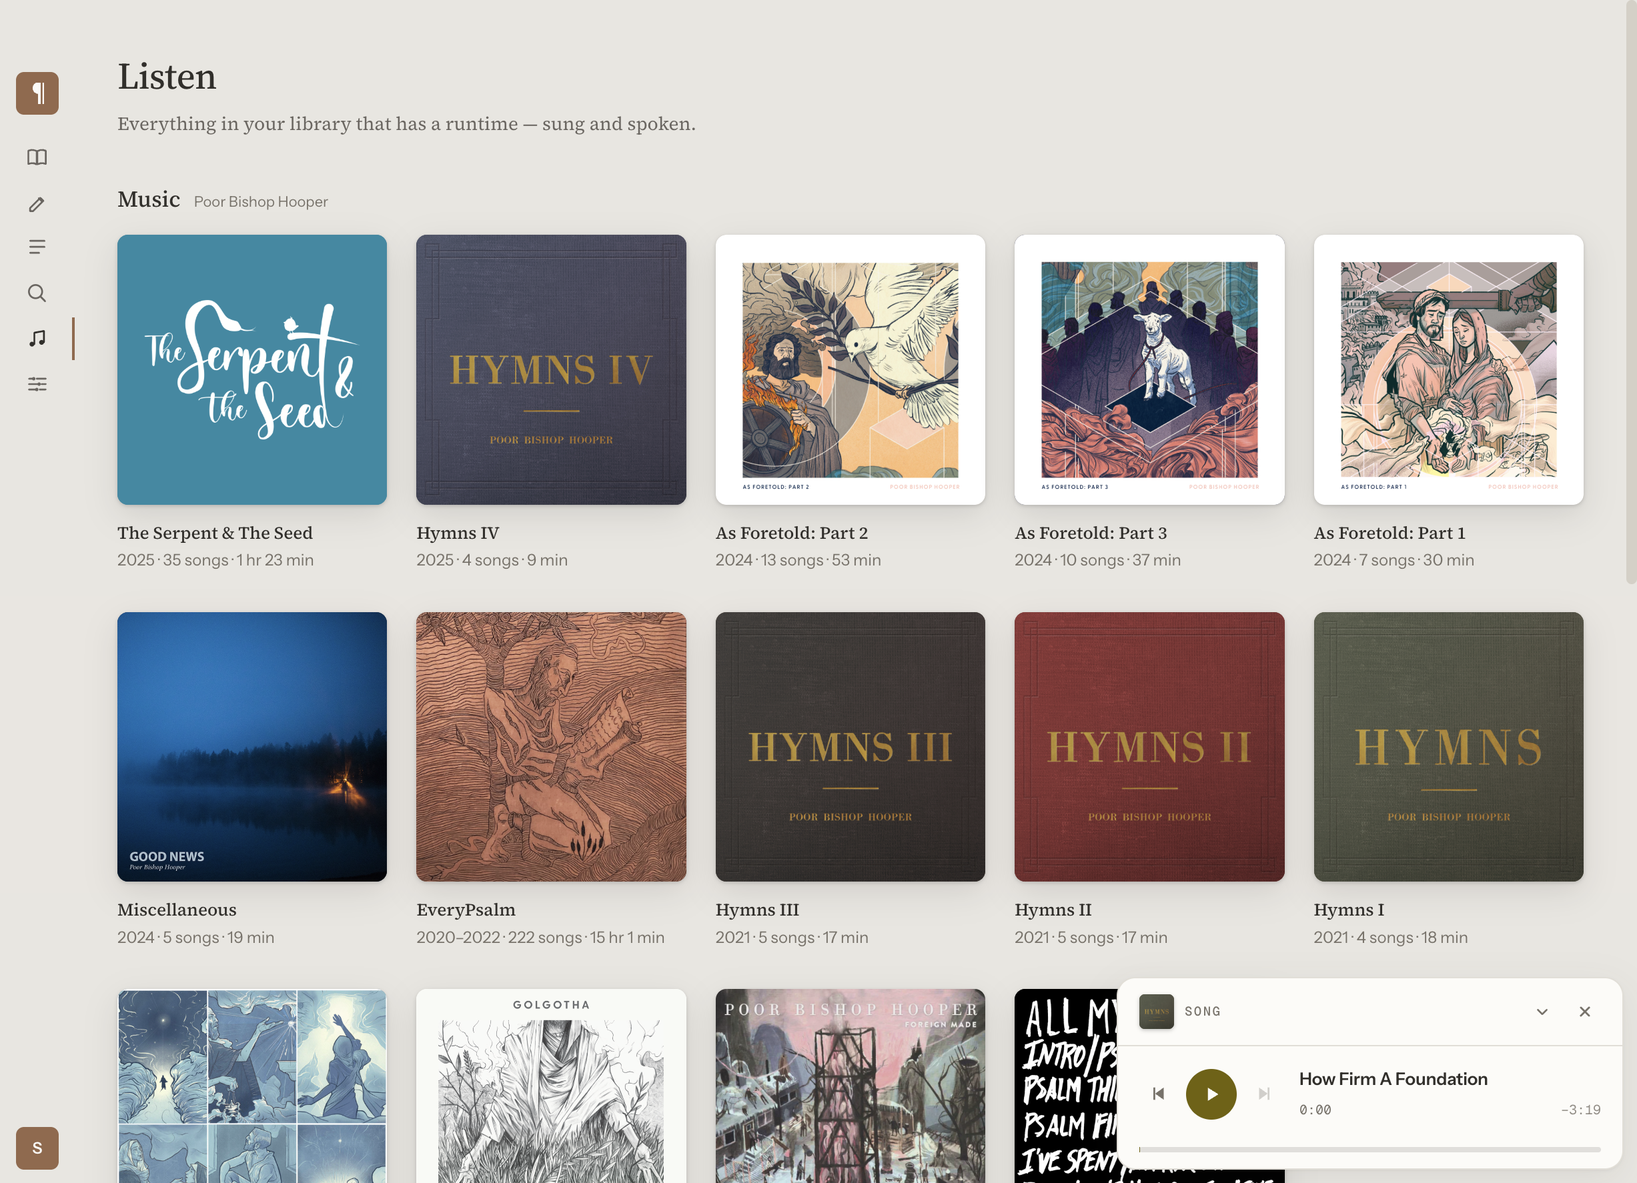
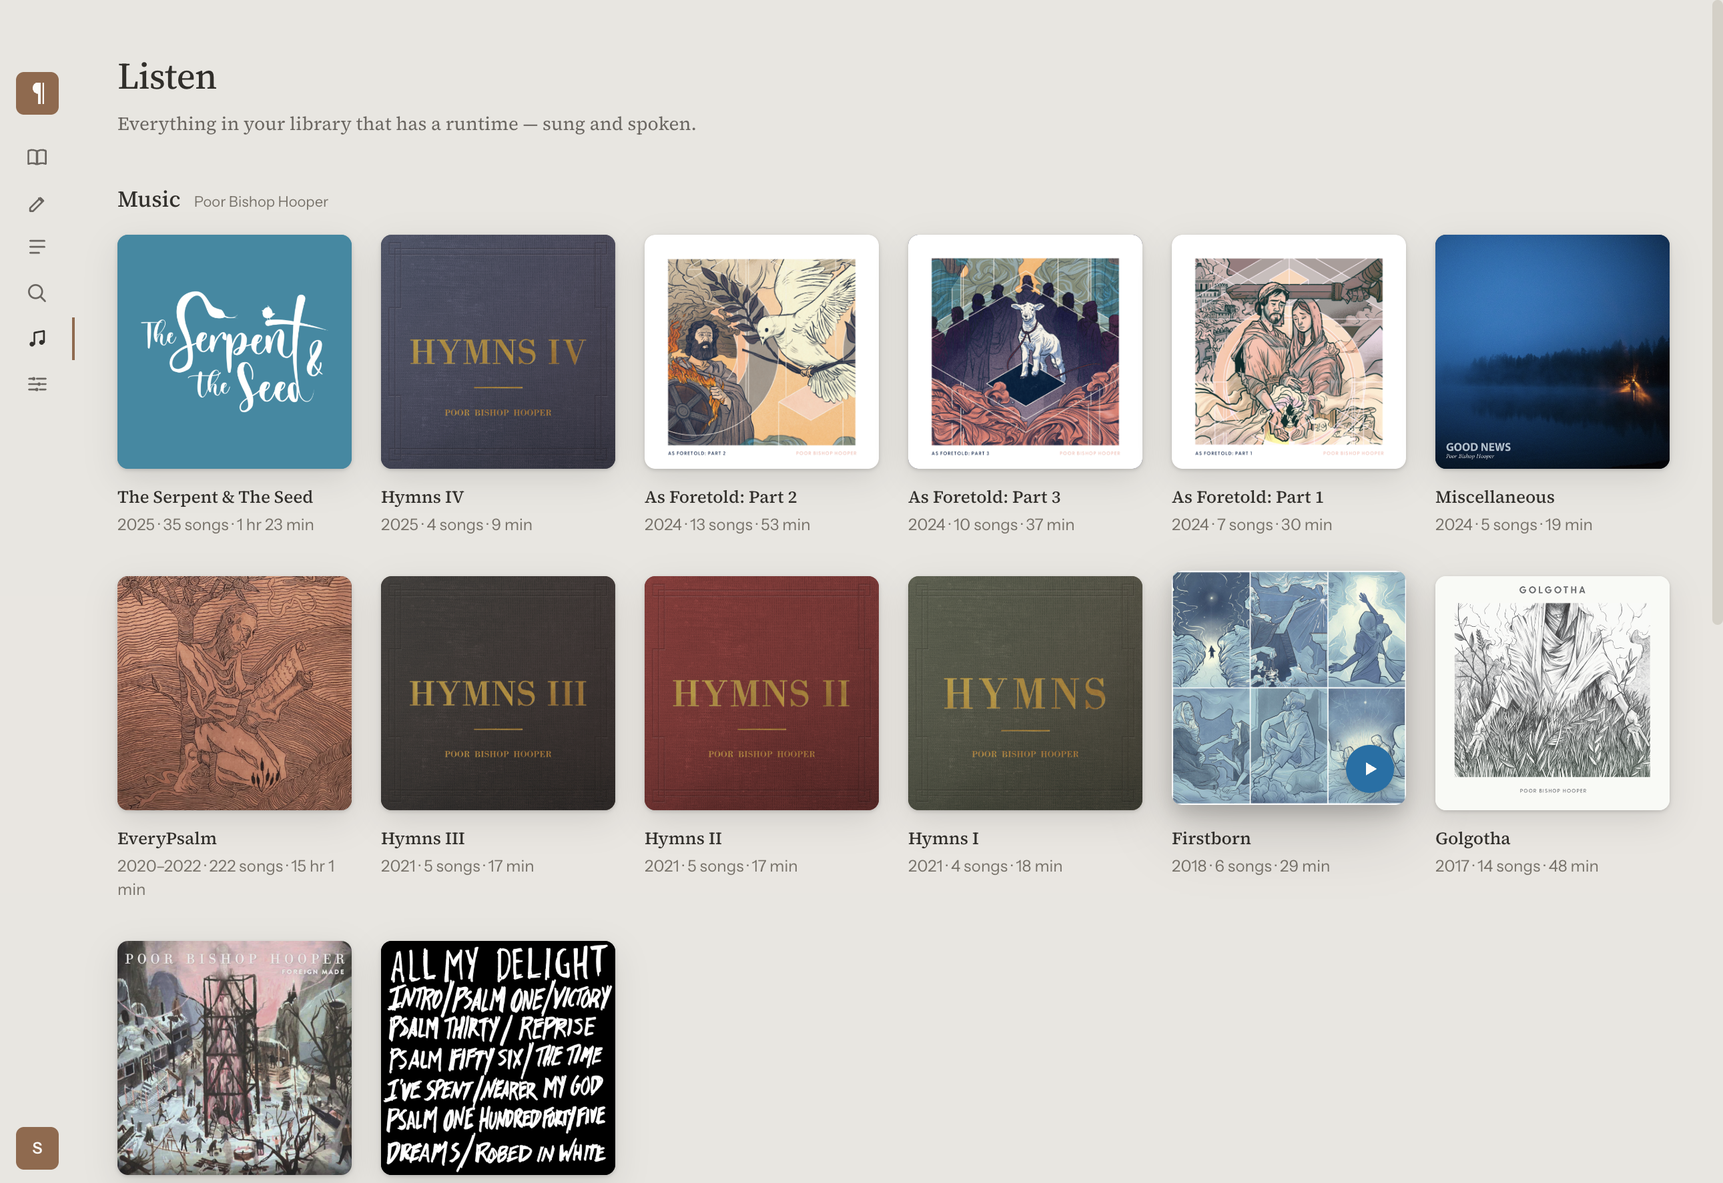
feat: the card wears its record, and the sleeve survives a restart
THE SLEEVE WAS LOST ON REFRESH, and the maintainer caught it: a song resumed
after a relaunch came back with no artwork and the dock fell through to the
publisher's plate. Both ends of the settings round trip rebuild the episode
field by field rather than copying it — which is the right shape, and exactly
why two new fields vanished silently. They are carried now, on both ends, and
VALIDATED rather than passed: a cover URL must name one of the seven reviewed
image hosts and a tint must be six hex digits, because anything that has been
on disk is untrusted by the time the main process reads it back. An unreviewed
host and a `javascript:` tint are both dropped — proven, not assumed.

THE CARD IS A ROW WITH A RECORD ON IT. The publisher's plate was a 56×28
landscape colophon inside the head line, with the filing across the top and
the title beneath. Beside artwork that order fails: the filing is quiet type
pushed right, so a one-line card had a strong image, an empty corner, and the
episode's name arriving third. The title leads now, the filing sits under it,
and both are pinned to the ends of the block so the words BRACKET the sleeve
rather than drifting beside it — the artwork spans both rows and sets their
height, and left centred the pair read as loose against a crisp square.

EVERYTHING IS SQUARE, on the maintainer's word: "even the marks should be
square." A register whose left column is square on some rows and landscape on
[…]

diff --git a/src/renderer/styles.css b/src/renderer/styles.css
@@ -21079,6 +21079,111 @@ button.lang-phrase-diagram-node:focus-visible,
    not go back into the head beside the plate, where two marks argued.
 
    AND THE TITLE GETS THE FLOOR — the whole 288, four times what it had. */
+/* ── THE CARD WEARING ITS SLEEVE · 2026-08-02 ──────────────────────────────
+   The plate is 56×28 — a two-to-one landscape built to lay a wordmark across.
+   A square cover dropped into it would be 28px, which is too small to
+   recognise and too small to be worth a request. So a card that wears artwork
+   is laid out the way every listening app lays out a row: the sleeve down the
+   left, spanning both rows, with the filing and the title stacked beside it.
+
+   48px is the size, and it is the card's own height that chooses it: 96px tall
+   with 14px of padding leaves 68 inside, and 48 sits inside that with air above
+   and below rather than filling it to the edges like a photograph in a frame
+   that is too small for it. */
+.resource-card-face {
+  grid-template-columns: 48px minmax(0, 1fr);
+  grid-template-rows: auto minmax(0, auto);
+  /* CENTRED, WHERE THE MARK FACE STARTS. `align-content: start` is right when
+     the card is one column of stacked rows — the head is a rule across the top
+     and the title hangs under it. Beside a 48px sleeve it is wrong: the cover
+     centres in the card's height and the words did not, so a one-line title
+     left sixteen pixels of slack under it and the pair read as having slipped.
+     Two things sitting side by side share a centre line. */
+  align-content: center;
+  column-gap: 11px;
+  /* Tighter than the card's own 8px. The filing line and the title are a PAIR
+     beside the artwork — one object with two lines — where in the mark face
+     they are two separate registers with a gap between them. */
+  row-gap: 3px;
+}
+
+/* TITLE FIRST, BESIDE THE ART. In the mark face the filing is a rule ACROSS
+   the top of the card and the title hangs beneath it — right, because there
+   the plate is part of that rule and the three small facts read as one line.
+
+   Beside a sleeve the same order fails: the filing is quiet type pushed to the
+   right of its column, so a one-line card had a strong image, an empty corner,
+   and the episode's name arriving third. The title is what a reader scans for
+   and it belongs at the top of the column, with the filing under it — which is
+   how every listening app in the world lays out a row with artwork on it.
+
+   The swap is visual only. The card is ONE button whose accessible name is
+   composed in `spokenFor`, so nothing about the reading order changes: no
+   focusable element is reordered and no text is read out of sequence. */
+.resource-card-face .resource-card-title {
+  grid-area: 1 / 2;
+  /* BRACKETED TO THE ARTWORK. The sleeve spans both rows, so it is the sleeve
+     that sets their combined height — 48px, split between two text boxes that
+     are each taller than the type inside them. Left to centre, both lines
+     floated in their own box and the pair read as loose against a crisp
+     square. Pinned to the ends, the title's first line meets the top edge of
+     the cover and the filing meets its bottom: the words bracket the art
+     instead of drifting beside it. */
+  align-self: start;
+}
+
+.resource-card-face .resource-card-head {
+  grid-area: 2 / 2;
+  align-self: end;
+}
+
+.resource-card-cover {
+  grid-area: 1 / 1 / 3 / 2;
+  align-self: center;
+  display: block;
+  position: relative;
+  width: 48px;
+  aspect-ratio: 1;
+  overflow: hidden;
+  border-radius: var(--radius-sm);
+  /* The card's ground is a pale wash of the same colour, so a cover needs its
+     own edge or it floats. One hairline in the artwork's own hue rather than
+     the app's grey — the same instrument the card's own edge uses. */
+  /* Two rings and they do different jobs. The inner hairline is the EDGE — a
+     white sleeve on a near-white card (BEMA's is both) has no boundary of its
+     own and would bleed into the ground without it. The soft drop is the LIFT,
+     which is what makes it read as an object lying on the card rather than a
+     hole cut into it. */
+  box-shadow:
+    0 0 0 1px rgb(0 0 0 / 0.1),
+    0 1px 4px rgb(0 0 0 / 0.16);
+}
+
+.resource-card-cover img {
+  display: block;
+  width: 100%;
+  height: 100%;
+  object-fit: cover;
+}
+
+/* THE GROUND FOLLOWS THE SLEEVE. The formula is the brand ground's, unchanged
+   in kind — the atmosphere fixes the lightness, the hue is the source's — so
+   every contrast the sweep measured over eleven publishers holds over any hue
+   this can produce.
+
+   ONE THING IS DIFFERENT AND IT MATTERS: chroma is MULTIPLIED here, where the
+   brand ground CLAMPS it to a floor of .011. A floor is right for a declared
+   brand colour, which always has hue; it is wrong for a colour read out of
+   artwork, because a black-and-white cover has none — and a floor applied to
+   an undefined hue resolves to 0°, which is red. That is precisely how the
+   BEMA card turned pink once already. Multiplying leaves grey grey. */
+.resource-card[data-face="cover"] {
+  --resource-ground: oklch(from var(--record-tint)
+    var(--ground-fit-l)
+    min(calc(c * 1.6), var(--ground-fit-c-max))
+    h);
+}
+
 .resource-card-head {
   display: flex;
   align-items: center;
@@ -22784,11 +22889,19 @@ button.lang-phrase-diagram-node:focus-visible,
      plate — stretched, every wordmark arrives as a full-width banner in the
      publisher's colour, which is the colour chart with a title under it that
      this whole room is against. */
-  justify-self: start;
+  /* SQUARE, AND IN THE SLEEVE'S SLOT · 2026-08-02. It was 56×28 and
+     `justify-self: start` so a wordmark could not stretch into a full-width
+     banner. It spans both rows of the card now, at the artwork's own size, so
+     the register reads as one column whichever face a row is wearing. The
+     narrow horizontal padding is for the widest lockups: Working Preacher's
+     3.27:1 mark is width-bound in a square and every pixel of margin comes
+     straight off its height. */
+  grid-area: 1 / 1 / 3 / 2;
+  align-self: center;
   place-items: center;
-  width: 56px;
-  height: 28px;
-  padding: 4px 6px;
+  width: 48px;
+  height: 48px;
+  padding: 6px 4px;
   border-radius: var(--radius-sm);
   background: var(--resource-source);
   color: var(--resource-ink);
@@ -22810,7 +22923,13 @@ button.lang-phrase-diagram-node:focus-visible,
    a brand with no separable symbol, paid by the only publisher who has one.
    Every other card's mark goes up, four of them by half again. */
 .resource-card .resource-card-plate .taught-here-mark {
-  --card-art-h: clamp(8px, calc(14.6px / pow(var(--resource-symbol-ratio), 0.34)), 17px);
+  /* K = 25, restated for the square · 2026-08-02. The rule is unchanged — one
+     third of the way from equal-height to equal-area, exponent 0.34 — and only
+     the box it is fitted to is new: 14.6 was drawn for a plate 28px tall, and
+     this one is 48 with 36 inside it. Every mark grows; the widest are still
+     bound by width rather than height, which is the trade the exponent makes
+     and the reason Working Preacher's remains the smallest of the eleven. */
+  --card-art-h: clamp(9px, calc(25px / pow(var(--resource-symbol-ratio), 0.34)), 28px);
   display: block;
   width: min(100%, calc(var(--card-art-h) * var(--resource-symbol-ratio)));
   height: var(--card-art-h);

diff --git a/src/renderer/components/Resources.tsx b/src/renderer/components/Resources.tsx
@@ -501,15 +501,23 @@ function ResourceCard({
   heavy,
   running,
   playing,
+  face,
   onOpen,
 }: {
   entry: ResourceEntry;
   heavy: boolean;
   running: boolean;
   playing: boolean;
+  face: ShelfFace;
   onOpen: (entry: ResourceEntry) => void;
 }): React.JSX.Element {
   const spoken = spokenFor(entry, running);
+  /* The reader's ONE choice, made in the library panel, answered the same way
+     on both surfaces. A room where the shelf wears covers and the cards wear
+     marks is a room that made the choice twice. A publisher with no artwork
+     keeps its plate whatever was chosen, so this states what is actually
+     drawn rather than what was asked for. */
+  const art = face === "cover" ? SHELF_ART[entry.sourceId] : undefined;
   return (
     /* The publisher moves to the CARD, and it is the card that needs it: the
        ground is derived from `--resource-source`, and the face below re-declares
@@ -519,12 +527,20 @@ function ResourceCard({
        transport is whose app this is. */
     <li
       className="resource-card"
+      data-face={art ? "cover" : "mark"}
       data-source={entry.sourceId}
       data-weight={heavy ? "heavy" : "light"}
+      /* THE CARD'S GROUND FOLLOWS ITS COVER. The ground is a lightness FIT —
+         the atmosphere sets l, the hue is the source's — so feeding it the
+         artwork's colour instead of the brand's keeps every contrast the sweep
+         measured and makes the card agree with the sleeve lying on it.
+         See the chroma note in styles.css: multiplied, never floored. */
+      style={art ? { "--record-tint": art.tint } as React.CSSProperties : undefined}
     >
       <button
         aria-label={spoken}
         className="resource-card-face"
+        data-face={art ? "cover" : "mark"}
         data-kind={entry.link ? "read" : "hear"}
         data-running={running ? "true" : undefined}
         onClick={() => onOpen(entry)}
@@ -542,10 +558,31 @@ function ResourceCard({
             goes from ~124px to ~288, about 20 characters a line to 48, and the
             card gets SHORTER — one row came out of it. See `.resource-card-head`
             in styles.css for the proportions. */}
-        <span className="resource-card-head">
+        {/* THE SLEEVE, BESIDE THE WORDS. A cover in the plate's 56×28 slot
+            would be a 28px thumbnail — too small to recognise and too small to
+            be worth the fetch. So when a card wears one it takes the whole
+            left of the card, spanning both rows, the way every listening app
+            in the world lays out a row. The head and the title move right and
+            keep their own order. */}
+        {art ? (
+          <span className="resource-card-cover" style={{ background: art.tint }}>
+            <img alt="" decoding="async" loading="lazy" src={art.cover} />
+          </span>
+        ) : (
+          /* The plate, in the sleeve's own slot and at the sleeve's own size.
+             It used to sit INSIDE the head line as a 56×28 landscape colophon,
+             which was right when the head was a rule across the top of the
+             card. With artwork on the shelf the maintainer asked for one shape
+             throughout — "even the marks should be square" — and they are
+             right: a register whose left column is square on some rows and
+             landscape on others is not a column. The publisher's own colour
+             fills the square behind their mark, so a wordmark drawn for a
+             banner still gets a field to sit in. */
           <span className="taught-here-plate resource-card-plate" data-source={entry.sourceId}>
             <span className="taught-here-mark">{entry.sourceName}</span>
           </span>
+        )}
+        <span className="resource-card-head">
           <span className="resource-card-ref">{entry.label}</span>
           {/* The transport mark stays against the extent it acts on — "▸ 12
               min" is one object, which is why the pair moved up together
@@ -1363,6 +1400,7 @@ export function Resources({
                     entry={entry}
                     heavy={false}
                     key={entry.key}
+                    face={face}
                     onOpen={open}
                     playing={playing}
                     running={runningKey === entry.key}
@@ -1378,6 +1416,7 @@ export function Resources({
             {shown.map((entry) => (
               <ResourceCard
                 entry={entry}
+                face={face}
                 heavy={isHeavy(entry)}
                 key={entry.key}
                 onOpen={open}

diff --git a/src/electron/main.ts b/src/electron/main.ts
@@ -306,6 +306,9 @@ interface AppSettingsSchema {
     officialUrl: string;
     audioUrl: string;
     kind: string;
+    /** The record's cover and the one colour it is, when it brought them. */
+    artUrl?: string;
+    tint?: string;
     /** The passage the launch carried, in the coordinates the canvas takes. */
     passage: {
       book: string;
@@ -489,6 +492,32 @@ function normalizeLastRead(value: unknown): AppSettingsSchema["lastRead"] {
  * of one rule start to disagree. What this guarantees is shape and scheme; a
  * resumed episode is a press like any other and crosses the same boundary.
  */
+/**
+ * The image hosts a stored cover may name.
+ *
+ * The SAME seven the shipped CSP permits, restated here because these two
+ * gates guard different doors: the CSP stops the renderer fetching from
+ * anywhere else, and this stops an unreviewed URL ever reaching a settings
+ * file that the renderer will later hand to an `<img src>`. A value that has
+ * been on disk is not a value this process wrote.
+ */
+const HEARD_ART_HOSTS = new Set([
+  "cdn.prod.website-files.com", "megaphone.imgix.net", "static.libsyn.com",
+  "pbcdn1.podbean.com", "media24.fireside.fm", "substackcdn.com",
+]);
+
+function reviewedArt(value: unknown): string | null {
+  if (typeof value !== "string" || !value.startsWith("https://")) return null;
+  let host: string;
+  try { host = new URL(value).hostname; } catch { return null; }
+  return HEARD_ART_HOSTS.has(host) || host.endsWith(".fireside.fm") ? value : null;
+}
+
+/** `#rrggbb`, and nothing else — this ends up in a `background` declaration. */
+function reviewedTint(value: unknown): string | null {
+  return typeof value === "string" && /^#[0-9a-f]{6}$/i.test(value) ? value : null;
+}
+
 function normalizeLastHeard(value: unknown): AppSettingsSchema["lastHeard"] {
   if (!value || typeof value !== "object") return null;
   const candidate = value as Record<string, unknown>;
@@ -533,6 +562,15 @@ function normalizeLastHeard(value: unknown): AppSettingsSchema["lastHeard"] {
     officialUrl: candidate["officialUrl"] as string,
     audioUrl: candidate["audioUrl"] as string,
     kind: candidate["kind"] as string,
+    /* THE COVER SURVIVES THE RESTART · 2026-08-02. This normaliser rebuilds
+       the object from an allowlist rather than copying it, which is the right
+       shape and is exactly why the artwork vanished: a song resumed after a
+       relaunch came back with no sleeve and the dock fell through to the
+       publisher's plate. The two fields are carried now — and validated, not
+       merely passed, because anything on disk is untrusted by the time this
+       process reads it back. */
+    ...(reviewedArt(candidate["artUrl"]) ? { artUrl: reviewedArt(candidate["artUrl"])! } : {}),
+    ...(reviewedTint(candidate["tint"]) ? { tint: reviewedTint(candidate["tint"])! } : {}),
     passage,
     positionSeconds: Math.floor(position),
   };

diff --git a/src/renderer/app.tsx b/src/renderer/app.tsx
@@ -807,6 +807,14 @@ export function App(): React.JSX.Element {
               audioUrl: held.audioUrl,
               passage: held.passage,
               kind: held.kind,
+              /* THE SLEEVE COMES BACK WITH IT. Both ends of this round trip
+                 rebuild the episode field by field rather than copying it —
+                 right, and the reason a song resumed after a relaunch arrived
+                 with no artwork and the dock fell back to the publisher's
+                 plate. Two more fields, on both ends, or it silently drops
+                 again the next time one is added. */
+              ...(held.artUrl ? { artUrl: held.artUrl } : {}),
+              ...(held.tint ? { tint: held.tint } : {}),
             },
             positionSeconds: held.positionSeconds,
           }
@@ -822,6 +830,8 @@ export function App(): React.JSX.Element {
                 officialUrl: next.episode.officialUrl,
                 audioUrl: next.episode.audioUrl,
                 kind: next.episode.kind,
+                ...(next.episode.artUrl ? { artUrl: next.episode.artUrl } : {}),
+                ...(next.episode.tint ? { tint: next.episode.tint } : {}),
                 passage: next.episode.passage,
                 positionSeconds: next.positionSeconds,
               }

diff --git a/tests/trusted-resource-desktop-contract.test.ts b/tests/trusted-resource-desktop-contract.test.ts
@@ -85,10 +85,15 @@ test("the Resources room shows a publisher's whole answer, and still only links 
 
      Still forbidden, unchanged: reproducing a publisher's prose, their
      players, or any field of their record beyond what a card names and links. */
-  assert.equal((room.match(/<img/g) ?? []).length, 1,
-    "the room may draw a publisher's cover and nothing else");
+  /* TWO, and each is a decision someone made: the shelf's cell and the card's
+     sleeve. Counted rather than merely forbidden, so a third image has to come
+     back through this gate and be argued for. */
+  assert.equal((room.match(/<img/g) ?? []).length, 2,
+    "the room may draw a publisher's cover on the shelf and on a card, and nothing else");
   assert.match(room, /face === "cover" && SHELF_ART\[chip\.id\] &&/,
-    "and only when the reader asked for covers");
+    "the shelf's cover is drawn only when the reader asked for covers");
+  assert.match(room, /const art = face === "cover" \? SHELF_ART\[entry\.sourceId\] : undefined;/,
+    "and the card's is the same one choice, not a second one");
   assert.match(read("src/renderer/shelf-face.ts"), /const DEFAULT_FACE: ShelfFace = "mark";/,
     "the shipped face must be the packaged mark, which fetches nothing");
 

diff --git a/tests/resources-contract.test.ts b/tests/resources-contract.test.ts
@@ -493,7 +493,14 @@ test("every card carries its publisher's mark", () => {
     cardPlateAt,
     styles.indexOf("\n}", styles.indexOf(".resource-card .resource-card-plate .taught-here-mark {", cardPlateAt)),
   );
-  assert.match(cardPlate, /width: 56px;\s*\n\s*height: 28px;/,
+  /* RESTATED 2026-08-02 — 48 square, where it was 56×28. What this gate holds
+     is that the plate is ONE FIXED BOX, not which box: a plate whose size
+     follows its content is the ragged head the reader rejected, and that is
+     as true of a square as it was of a landscape. The shape changed with the
+     shelf's cover face, on the maintainer's word — "even the marks should be
+     square" — so that the card's left column is one column whichever face a
+     row is wearing. */
+  assert.match(cardPlate, /width: 48px;\s*\n\s*height: 48px;/,
     "the card's plate is not one box any more; a plate whose size follows its content is the ragged head the reader rejected");
   assert.match(cardPlate, /background: var\(--resource-symbol\) center \/ contain no-repeat/,
     "the card is drawing something other than the publisher's symbol");

diff --git a/tests/trusted-resource-permissions.test.ts b/tests/trusted-resource-permissions.test.ts
@@ -95,8 +95,11 @@ test("reviewed manifests and cards retain the common link-only permission bounda
      the publisher's own cover, drawn only when the reader has turned covers on
      against a default of the packaged mark. */
   assert.doesNotMatch(block, /<iframe|<video|fetch\(|>Save/);
-  assert.equal((block.match(/<img/g) ?? []).length, 1,
-    "the room may draw a publisher's cover and nothing else");
+  /* TWO, and each is a decision someone made: the shelf's cell and the card's
+     sleeve. Counted rather than merely forbidden, so a third image has to come
+     back through this gate and be argued for. */
+  assert.equal((block.match(/<img/g) ?? []).length, 2,
+    "the room may draw a publisher's cover on the shelf and on a card, and nothing else");
   assert.match(read("src/renderer/shelf-face.ts"), /const DEFAULT_FACE: ShelfFace = "mark";/,
     "the shipped face must fetch nothing");
   assert.doesNotMatch(block, /<audio/);

diff --git a/src/renderer/api.ts b/src/renderer/api.ts
@@ -338,6 +338,9 @@ export interface AppSettings {
     officialUrl: string;
     audioUrl: string;
     kind: string;
+    /** The record's cover and the one colour it is, when it brought them. */
+    artUrl?: string;
+    tint?: string;
     passage: {
       book: string;
       chapter: number;
